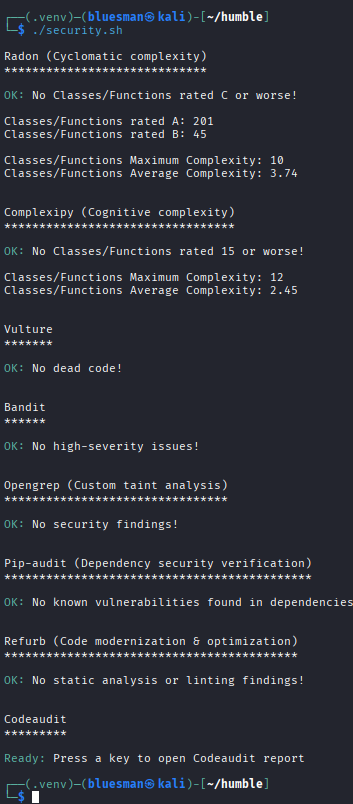
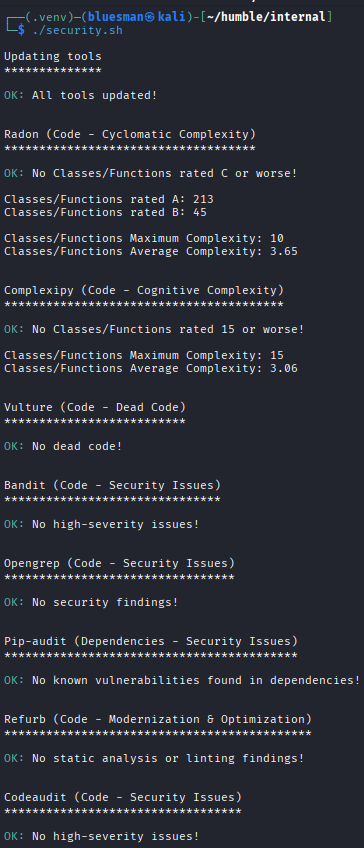
Minor: Code optimizations

diff --git a/humble.py b/humble.py
@@ -2391,36 +2391,39 @@ def finalize_export(final_filename, temp_filename, file_extension, export_all):
             processed_file.truncate()
 
 
+def generate_txt(reliable, tmp_filename):
+    """Handle TXT export, including CI/CD totals and OWASP compliance.
+
+    Related to `-o txt` option.
+    """
+    if args.cicd:
+        threshold = args.cicd if isinstance(args.cicd, str) else None
+        print_cicd_totals(tmp_filename, threshold)
+    print_export_path(tmp_filename, reliable)
+    if "-c" in sys.argv:
+        check_owasp_compliance(tmp_filename)
+
+
 def check_output_format(final_filename, reliable, tmp_filename):
     """Dispatch the export logic for the selected output format.
 
-    Maps each supported format (text, CSV, JSON, XLSX, XML, HTML and PDF) to its
-    corresponding function. For text output, handles CI/CD totals and OWASP
-    compliance checks; for JSON, toggles between brief and detailed reports.
+    Maps each supported format (TXT, CSV, JSON, XLSX, XML, HTML and PDF) to
+    its corresponding function.
 
     Related to `-o` option.
     """
-    match args.output:
-        case "txt":
-            if args.cicd:
-                print_cicd_totals(tmp_filename, args.cicd if
-                                  isinstance(args.cicd, str) else None)
-            print_export_path(tmp_filename, reliable)
-            if "-c" in sys.argv:
-                check_owasp_compliance(tmp_filename)
-        case "csv":
-            generate_csv(final_filename, tmp_filename)
-        case "json":
-            (generate_json(final_filename, tmp_filename) if args.brief else
-             generate_json_detailed(final_filename, tmp_filename))
-        case "xlsx":
-            generate_csv(final_filename, tmp_filename, to_xlsx=True)
-        case "xml":
-            generate_xml(final_filename, tmp_filename)
-        case "html":
-            export_html_file(final_filename, tmp_filename)
-        case "pdf":
-            export_pdf_file(tmp_filename)
+    exporters = {
+        "txt": lambda: generate_txt(reliable, tmp_filename),
+        "csv": lambda: generate_csv(final_filename, tmp_filename),
+        "json": lambda: (generate_json if args.brief else
+                         generate_json_detailed)(final_filename, tmp_filename),
+        "xlsx": lambda: generate_csv(final_filename, tmp_filename,
+                                     to_xlsx=True),
+        "xml": lambda: generate_xml(final_filename, tmp_filename),
+        "html": lambda: export_html_file(final_filename, tmp_filename),
+        "pdf": lambda: export_pdf_file(tmp_filename),
+    }
+    exporters[args.output]()
 
 
 def check_cicd(analysis_grade, threshold_grade):

diff --git a/README.md b/README.md
@@ -548,6 +548,7 @@ And is regularly audited manually using the following tools (for each of them, I
 - <a href="https://github.com/joerick/pyinstrument" target="_blank">pyinstrument</a>: `python -m pyinstrument -r html humble.py -u https://google.com`
 - <a href="https://github.com/rubik/radon" target="_blank">radon</a>: `radon cc humble.py -s -a`
 - <a href="https://github.com/dosisod/refurb" target="_blank">Refurb</a>: `refurb humble.py --python-version 3.11`
+- <a href="https://github.com/koalaman/shellcheck" target="_blank">ShellCheck</a>: `shellcheck internal/releases.sh internal/security.sh`
 - <a href="https://github.com/jendrikseipp/vulture" target="_blank">vulture</a>: `vulture --min-confidence 60 humble.py`
 
 <img src="https://github.com/rfc-st/humble/blob/master/screenshots/humble_secqa.PNG" alt="Security and QA checks">